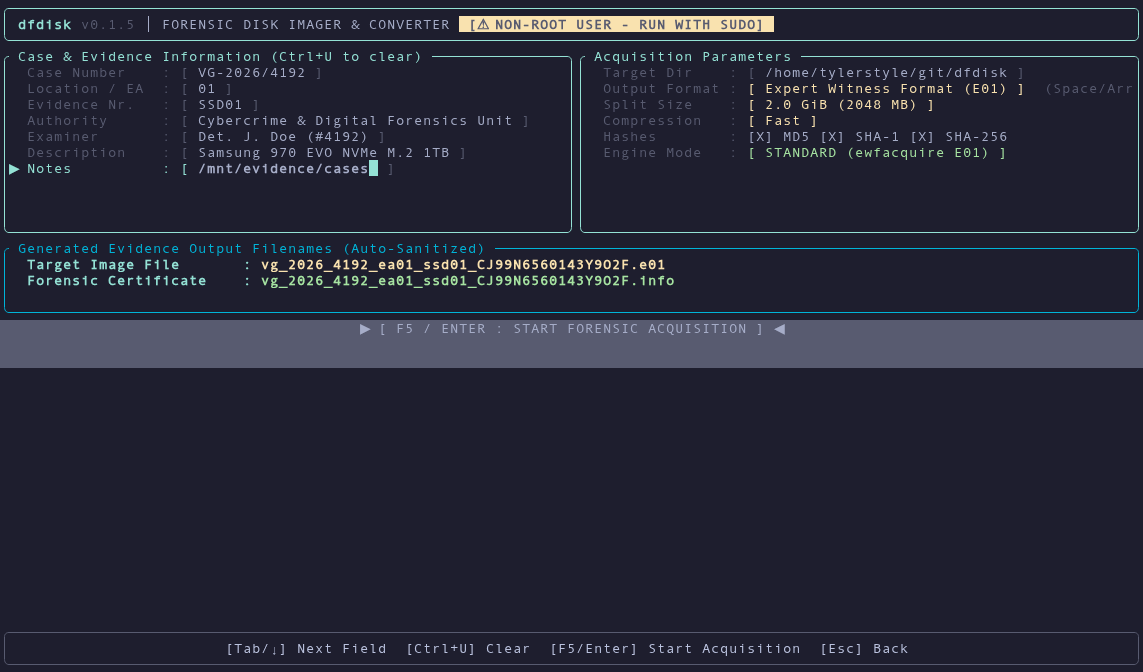
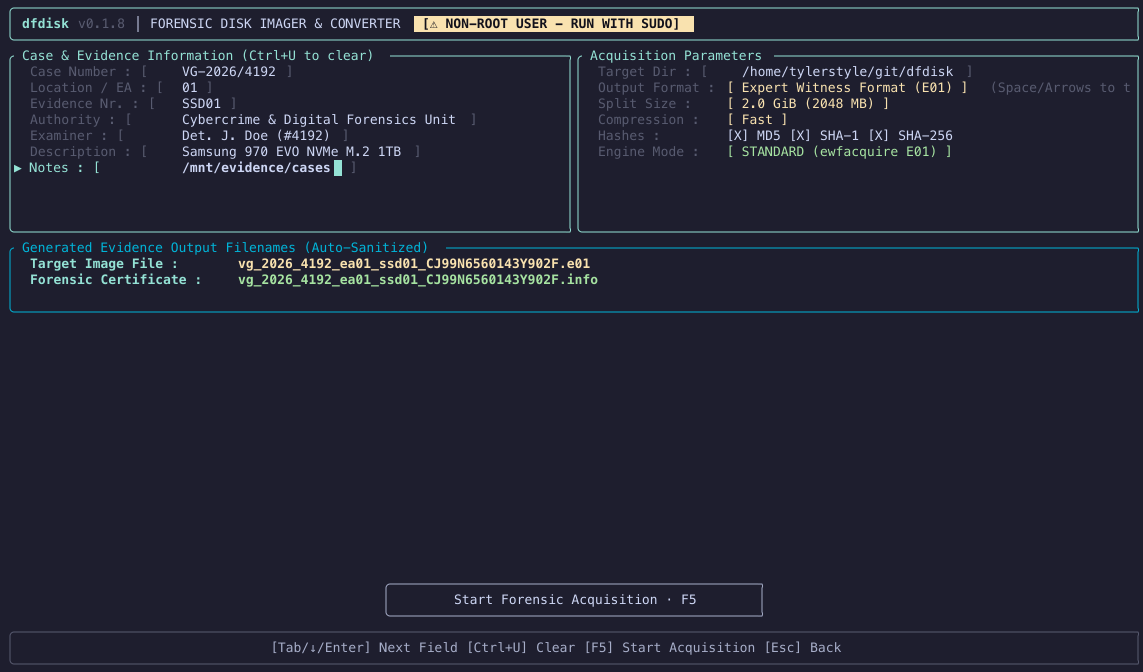
docs: update case setup and converter screenshots for v0.1.8 button layout

diff --git a/examples/render_screenshots.rs b/examples/render_screenshots.rs
@@ -1,0 +1,389 @@
+use std::fs::File;
+use std::io::Write;
+use ratatui::backend::TestBackend;
+use ratatui::buffer::Buffer;
+use ratatui::style::{Color, Modifier};
+use ratatui::Terminal;
+
+use dfdisk::models::case::CaseMetadata;
+use dfdisk::models::config::{AcquisitionConfig, CompressionLevel, ImageFormat, SplitSize};
+use dfdisk::models::device::{BlockDevice, DeviceSafety};
+use dfdisk::tui::app::{App, Screen};
+use dfdisk::tui::ui;
+
+fn color_to_hex(color: Color) -> &'static str {
+    match color {
+        Color::Reset => "#1E1E2E",
+        Color::Black => "#11111B",
+        Color::Red | Color::LightRed => "#F38BA8",
+        Color::Green | Color::LightGreen => "#A6E3A1",
+        Color::Yellow | Color::LightYellow => "#F9E2AF",
+        Color::Blue | Color::LightBlue => "#89B4FA",
+        Color::Magenta | Color::LightMagenta => "#F5C2E7",
+        Color::Cyan | Color::LightCyan => "#94E2D5",
+        Color::Gray => "#A6ADC8",
+        Color::DarkGray => "#585B70",
+        Color::White => "#CDD6F4",
+        _ => "#CDD6F4",
+    }
+}
+
+fn color_to_string(color: Color) -> String {
+    match color {
+        Color::Rgb(r, g, b) => format!("#{:02X}{:02X}{:02X}", r, g, b),
+        _ => color_to_hex(color).to_string(),
+    }
+}
+
+fn is_box_drawing(sym: &str) -> bool {
+    matches!(
+        sym,
+        "─" | "│" | "╭" | "╮" | "╯" | "╰"
+            | "┌" | "┐" | "└" | "┘"
+            | "├" | "┤" | "┬" | "┴" | "┼"
+            | "═" | "║" | "╔" | "╗" | "╚" | "╝"
+            | "█"
+    )
+}
+
+fn buffer_to_svg(buffer: &Buffer, width_cells: u16, height_cells: u16) -> String {
+    let cell_w = 8.0f64;
+    let cell_h = 16.0f64;
+    let pad_x = 6.0f64;
+    let pad_y = 0.0f64;
+
+    let total_w = 1143;
+    let total_h = 672;
+
+    let mut svg = String::new();
+    let bg_base = "#1E1E2E";
+    svg.push_str(&format!(
+        r#"<svg xmlns="http://www.w3.org/2000/svg" width="{total_w}" height="{total_h}" viewBox="0 0 {total_w} {total_h}">
+  <rect width="{total_w}" height="{total_h}" fill="{bg_base}"/>
+"#,
+        total_w = total_w,
+        total_h = total_h,
+        bg_base = bg_base
+    ));
+
+    // Pass 1: Render all background rects
+    for y in 0..height_cells {
+        for x in 0..width_cells {
+            let cell = buffer.cell((x, y)).unwrap();
+            let bg = cell.bg;
+            if bg != Color::Reset && bg != Color::Black {
+                let bg_hex = color_to_string(bg);
+                if bg_hex != "#1E1E2E" && bg_hex != "#11111B" {
+                    let cx = pad_x + x as f64 * cell_w;
+                    let cy = pad_y + y as f64 * cell_h;
+                    svg.push_str(&format!(
+                        r#"  <rect x="{}" y="{}" width="{}" height="{}" fill="{}"/>
+"#,
+                        cx, cy, cell_w, cell_h, bg_hex
+                    ));
+                }
+            }
+        }
+    }
+
+    // Pass 2: Render box drawing characters and text runs
+    for y in 0..height_cells {
+        let cy = pad_y + y as f64 * cell_h;
+        let mut x = 0;
+
+        while x < width_cells {
+            let cell = buffer.cell((x, y)).unwrap();
+            let sym = cell.symbol();
+
+            if sym.is_empty() || sym == " " {
+                x += 1;
+                continue;
+            }
+
+            let fg_hex = color_to_string(cell.fg);
+            let cx = pad_x + x as f64 * cell_w;
+
+            if is_box_drawing(sym) {
+                match sym {
+                    "─" => {
+                        svg.push_str(&format!(
+                            r#"  <line x1="{}" y1="{}" x2="{}" y2="{}" stroke="{}" stroke-width="1"/>
+"#,
+                            cx, cy + 8.0, cx + 8.0, cy + 8.0, fg_hex
+                        ));
+                    }
+                    "│" => {
+                        svg.push_str(&format!(
+                            r#"  <line x1="{}" y1="{}" x2="{}" y2="{}" stroke="{}" stroke-width="1"/>
+"#,
+                            cx + 4.0, cy, cx + 4.0, cy + 16.0, fg_hex
+                        ));
+                    }
+                    "╭" => {
+                        svg.push_str(&format!(
+                            r#"  <path d="M {} {} L {} {} A 4 4 0 0 1 {} {} L {} {}" fill="none" stroke="{}" stroke-width="1"/>
+"#,
+                            cx + 4.0, cy + 16.0, cx + 4.0, cy + 12.0, cx + 8.0, cy + 8.0, cx + 8.0, cy + 8.0, fg_hex
+                        ));
+                    }
+                    "╮" => {
+                        svg.push_str(&format!(
+                            r#"  <path d="M {} {} L {} {} A 4 4 0 0 1 {} {} L {} {}" fill="none" stroke="{}" stroke-width="1"/>
+"#,
+                            cx, cy + 8.0, cx + 4.0, cy + 8.0, cx + 4.0, cy + 12.0, cx + 4.0, cy + 16.0, fg_hex
+                        ));
+                    }
+                    "╯" => {
+                        svg.push_str(&format!(
+                            r#"  <path d="M {} {} L {} {} A 4 4 0 0 0 {} {} L {} {}" fill="none" stroke="{}" stroke-width="1"/>
+"#,
+                            cx, cy + 8.0, cx + 4.0, cy + 8.0, cx + 4.0, cy + 4.0, cx + 4.0, cy, fg_hex
+                        ));
+                    }
+                    "╰" => {
+                        svg.push_str(&format!(
+                            r#"  <path d="M {} {} L {} {} A 4 4 0 0 0 {} {} L {} {}" fill="none" stroke="{}" stroke-width="1"/>
+"#,
+                            cx + 4.0, cy, cx + 4.0, cy + 4.0, cx + 8.0, cy + 8.0, cx + 8.0, cy + 8.0, fg_hex
+                        ));
+                    }
+                    "═" => {
+                        svg.push_str(&format!(
+                            r#"  <line x1="{}" y1="{}" x2="{}" y2="{}" stroke="{}" stroke-width="1"/>
+  <line x1="{}" y1="{}" x2="{}" y2="{}" stroke="{}" stroke-width="1"/>
+"#,
+                            cx, cy + 6.0, cx + 8.0, cy + 6.0, fg_hex,
+                            cx, cy + 10.0, cx + 8.0, cy + 10.0, fg_hex
+                        ));
+                    }
+                    "║" => {
+                        svg.push_str(&format!(
+                            r#"  <line x1="{}" y1="{}" x2="{}" y2="{}" stroke="{}" stroke-width="1"/>
+  <line x1="{}" y1="{}" x2="{}" y2="{}" stroke="{}" stroke-width="1"/>
+"#,
+                            cx + 2.0, cy, cx + 2.0, cy + 16.0, fg_hex,
+                            cx + 6.0, cy, cx + 6.0, cy + 16.0, fg_hex
+                        ));
+                    }
+                    "╔" => {
+                        svg.push_str(&format!(
+                            r#"  <line x1="{}" y1="{}" x2="{}" y2="{}" stroke="{}" stroke-width="1"/>
+  <line x1="{}" y1="{}" x2="{}" y2="{}" stroke="{}" stroke-width="1"/>
+  <line x1="{}" y1="{}" x2="{}" y2="{}" stroke="{}" stroke-width="1"/>
+  <line x1="{}" y1="{}" x2="{}" y2="{}" stroke="{}" stroke-width="1"/>
+"#,
+                            cx + 2.0, cy + 10.0, cx + 2.0, cy + 16.0, fg_hex,
+                            cx + 6.0, cy + 6.0, cx + 6.0, cy + 16.0, fg_hex,
+                            cx + 6.0, cy + 6.0, cx + 8.0, cy + 6.0, fg_hex,
+                            cx + 2.0, cy + 10.0, cx + 8.0, cy + 10.0, fg_hex
+                        ));
+                    }
+                    "╗" => {
+                        svg.push_str(&format!(
+                            r#"  <line x1="{}" y1="{}" x2="{}" y2="{}" stroke="{}" stroke-width="1"/>
+  <line x1="{}" y1="{}" x2="{}" y2="{}" stroke="{}" stroke-width="1"/>
+  <line x1="{}" y1="{}" x2="{}" y2="{}" stroke="{}" stroke-width="1"/>
+  <line x1="{}" y1="{}" x2="{}" y2="{}" stroke="{}" stroke-width="1"/>
+"#,
+                            cx + 6.0, cy + 10.0, cx + 6.0, cy + 16.0, fg_hex,
+                            cx + 2.0, cy + 6.0, cx + 2.0, cy + 16.0, fg_hex,
+                            cx, cy + 6.0, cx + 2.0, cy + 6.0, fg_hex,
+                            cx, cy + 10.0, cx + 6.0, cy + 10.0, fg_hex
+                        ));
+                    }
+                    "╚" => {
+                        svg.push_str(&format!(
+                            r#"  <line x1="{}" y1="{}" x2="{}" y2="{}" stroke="{}" stroke-width="1"/>
+  <line x1="{}" y1="{}" x2="{}" y2="{}" stroke="{}" stroke-width="1"/>
+  <line x1="{}" y1="{}" x2="{}" y2="{}" stroke="{}" stroke-width="1"/>
+  <line x1="{}" y1="{}" x2="{}" y2="{}" stroke="{}" stroke-width="1"/>
+"#,
+                            cx + 2.0, cy, cx + 2.0, cy + 6.0, fg_hex,
+                            cx + 6.0, cy, cx + 6.0, cy + 10.0, fg_hex,
+                            cx + 6.0, cy + 10.0, cx + 8.0, cy + 10.0, fg_hex,
+                            cx + 2.0, cy + 6.0, cx + 8.0, cy + 6.0, fg_hex
+                        ));
+                    }
+                    "╝" => {
+                        svg.push_str(&format!(
+                            r#"  <line x1="{}" y1="{}" x2="{}" y2="{}" stroke="{}" stroke-width="1"/>
+  <line x1="{}" y1="{}" x2="{}" y2="{}" stroke="{}" stroke-width="1"/>
+  <line x1="{}" y1="{}" x2="{}" y2="{}" stroke="{}" stroke-width="1"/>
+  <line x1="{}" y1="{}" x2="{}" y2="{}" stroke="{}" stroke-width="1"/>
+"#,
+                            cx + 6.0, cy, cx + 6.0, cy + 6.0, fg_hex,
+                            cx + 2.0, cy, cx + 2.0, cy + 10.0, fg_hex,
+                            cx, cy + 10.0, cx + 2.0, cy + 10.0, fg_hex,
+                            cx, cy + 6.0, cx + 6.0, cy + 6.0, fg_hex
+                        ));
+                    }
+                    "█" => {
+                        svg.push_str(&format!(
+                            r#"  <rect x="{}" y="{}" width="{}" height="{}" fill="{}"/>
+"#,
+                            cx, cy, cell_w, cell_h, fg_hex
+                        ));
+                    }
+                    _ => {}
+                }
+                x += 1;
+            } else {
+                // Collect contiguous text run with same style
+                let start_x = x;
+                let cur_fg = cell.fg;
+                let cur_bg = cell.bg;
+                let cur_mod = cell.modifier;
+
+                let mut text = String::new();
+                while x < width_cells {
+                    let next_cell = buffer.cell((x, y)).unwrap();
+                    let next_sym = next_cell.symbol();
+                    if is_box_drawing(next_sym)
+                        || next_cell.fg != cur_fg
+                        || next_cell.bg != cur_bg
+                        || next_cell.modifier != cur_mod
+                    {
+                        break;
+                    }
+                    text.push_str(next_sym);
+                    x += 1;
+                }
+
+                let span_len = x - start_x;
+                let span_w = span_len as f64 * cell_w;
+                let span_cx = pad_x + start_x as f64 * cell_w;
+
+                let is_bold = cur_mod.contains(Modifier::BOLD);
+                let bold_attr = if is_bold { r#" font-weight="bold""# } else { "" };
+
+                let escaped = text
+                    .replace("&", "&amp;")
+                    .replace("<", "&lt;")
+                    .replace(">", "&gt;");
+
+                svg.push_str(&format!(
+                    r#"  <text x="{}" y="{}" font-family="MesloLGS Nerd Font" font-size="13px"{} fill="{}" textLength="{}" lengthAdjust="spacing">{}</text>
+"#,
+                    span_cx,
+                    cy + 12.0,
+                    bold_attr,
+                    color_to_string(cur_fg),
+                    span_w,
+                    escaped
+                ));
+            }
+        }
+    }
+
+    svg.push_str("</svg>\n");
+    svg
+}
+
+fn build_case_setup_app() -> App {
+    let mut app = App::new();
+    app.current_screen = Screen::CaseSetup;
+    app.case_metadata = CaseMetadata {
+        case_number: "VG-2026/4192".to_string(),
+        location_ea: "01".to_string(),
+        evidence_number: "SSD01".to_string(),
+        authority: "Cybercrime & Digital Forensics Unit".to_string(),
+        examiner: "Det. J. Doe (#4192)".to_string(),
+        description: "Samsung 970 EVO NVMe M.2 1TB".to_string(),
+        notes: "/mnt/evidence/cases".to_string(),
+    };
+    app.active_field = 6; // FormField::Notes
+    app.cursor_pos = app.case_metadata.notes.len();
+
+    app.target_dir_str = "/home/tylerstyle/git/dfdisk".to_string();
+    app.config = AcquisitionConfig {
+        output_dir: std::path::PathBuf::from("/home/tylerstyle/git/dfdisk"),
+        format: ImageFormat::E01,
+        split_size: SplitSize::TwoGb,
+        compression: CompressionLevel::Fast,
+        calc_md5: true,
+        calc_sha1: true,
+        calc_sha256: true,
+        error_retries: 3,
+        wipe_bad_sectors: false,
+        rescue_mode: false,
+        resume: false,
+    };
+
+    let dev = BlockDevice {
+        name: "nvme0n1".to_string(),
+        path: "/dev/nvme0n1".to_string(),
+        devlinks: vec![],
+        size_bytes: 1_000_204_886_016,
+        model: Some("Samsung 970 EVO NVMe M.2 1TB".to_string()),
+        vendor: None,
+        serial: Some("CJ99N6560143Y902F".to_string()),
+        wwn: None,
+        revision: None,
+        bus_type: "NVMe".to_string(),
+        is_rotational: Some(false),
+        is_removable: false,
+        is_read_only: true,
+        logical_sector_size: 512,
+        physical_sector_size: 512,
+        partition_table_type: None,
+        partitions: vec![],
+        mountpoints: vec![],
+        safety: DeviceSafety::Safe,
+        smart: None,
+    };
+    app.devices = vec![dev];
+    app.selected_device_idx = 0;
+
+    app
+}
+
+fn build_image_converter_app() -> App {
+    let mut app = App::new();
+    app.current_screen = Screen::Converter;
+    app.conv_source_path = "/mnt/evidence/cases/suspect_disk.raw".to_string();
+    app.conv_cursor_pos = app.conv_source_path.len();
+    app.conv_active_field = 0; // ConverterField::SourcePath
+    app.conv_to_e01 = true;
+    app.conv_target_dir = "/home/tylerstyle/git/dfdisk".to_string();
+    app.conv_status_msg = "Ready to convert images.".to_string();
+
+    app
+}
+
+fn main() -> Result<(), Box<dyn std::error::Error>> {
+    println!("Rendering Case Setup screen...");
+    let mut case_app = build_case_setup_app();
+    let backend = TestBackend::new(142, 42);
+    let mut terminal = Terminal::new(backend)?;
+    terminal.draw(|f| {
+        ui::render(f, &mut case_app);
+    })?;
+    let case_svg = buffer_to_svg(terminal.backend().buffer(), 142, 42);
+    let mut f = File::create("/tmp/case_setup.svg")?;
+    f.write_all(case_svg.as_bytes())?;
+
+    println!("Rendering Image Converter screen...");
+    let mut conv_app = build_image_converter_app();
+    let backend = TestBackend::new(142, 42);
+    let mut terminal = Terminal::new(backend)?;
+    terminal.draw(|f| {
+        ui::render(f, &mut conv_app);
+    })?;
+    let conv_svg = buffer_to_svg(terminal.backend().buffer(), 142, 42);
+    let mut f = File::create("/tmp/image_converter.svg")?;
+    f.write_all(conv_svg.as_bytes())?;
+
+    println!("Rasterizing to PNG via ImageMagick...");
+    let status = std::process::Command::new("magick")
+        .args(["/tmp/case_setup.svg", "assets/screenshots/case_setup.png"])
+        .status()?;
+    assert!(status.success());
+
+    let status = std::process::Command::new("magick")
+        .args(["/tmp/image_converter.svg", "assets/screenshots/image_converter.png"])
+        .status()?;
+    assert!(status.success());
+
+    println!("Screenshots successfully generated!");
+    Ok(())
+}

diff --git a/src/lib.rs b/src/lib.rs
@@ -1,0 +1,5 @@
+pub mod cli;
+pub mod discovery;
+pub mod engines;
+pub mod models;
+pub mod tui;
